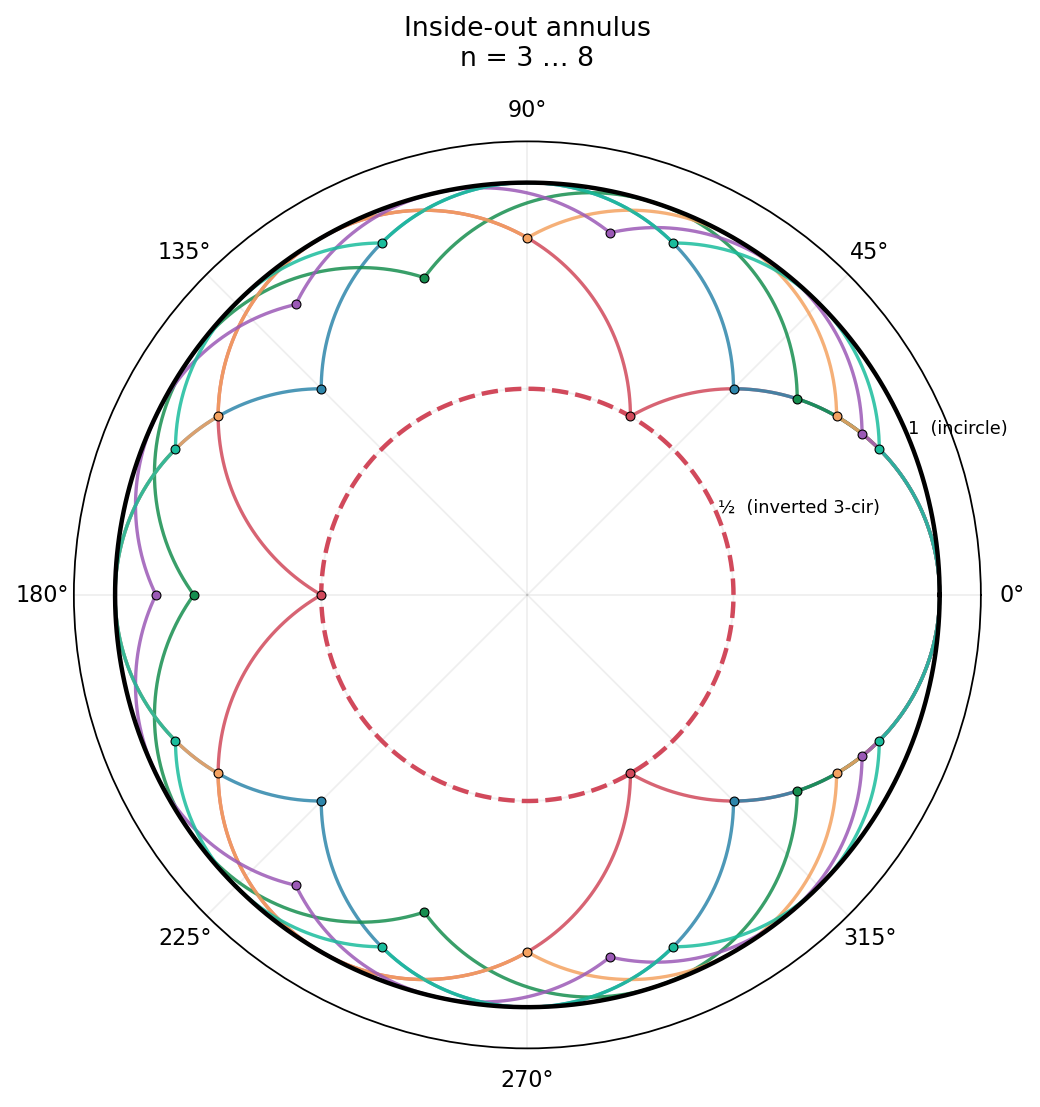
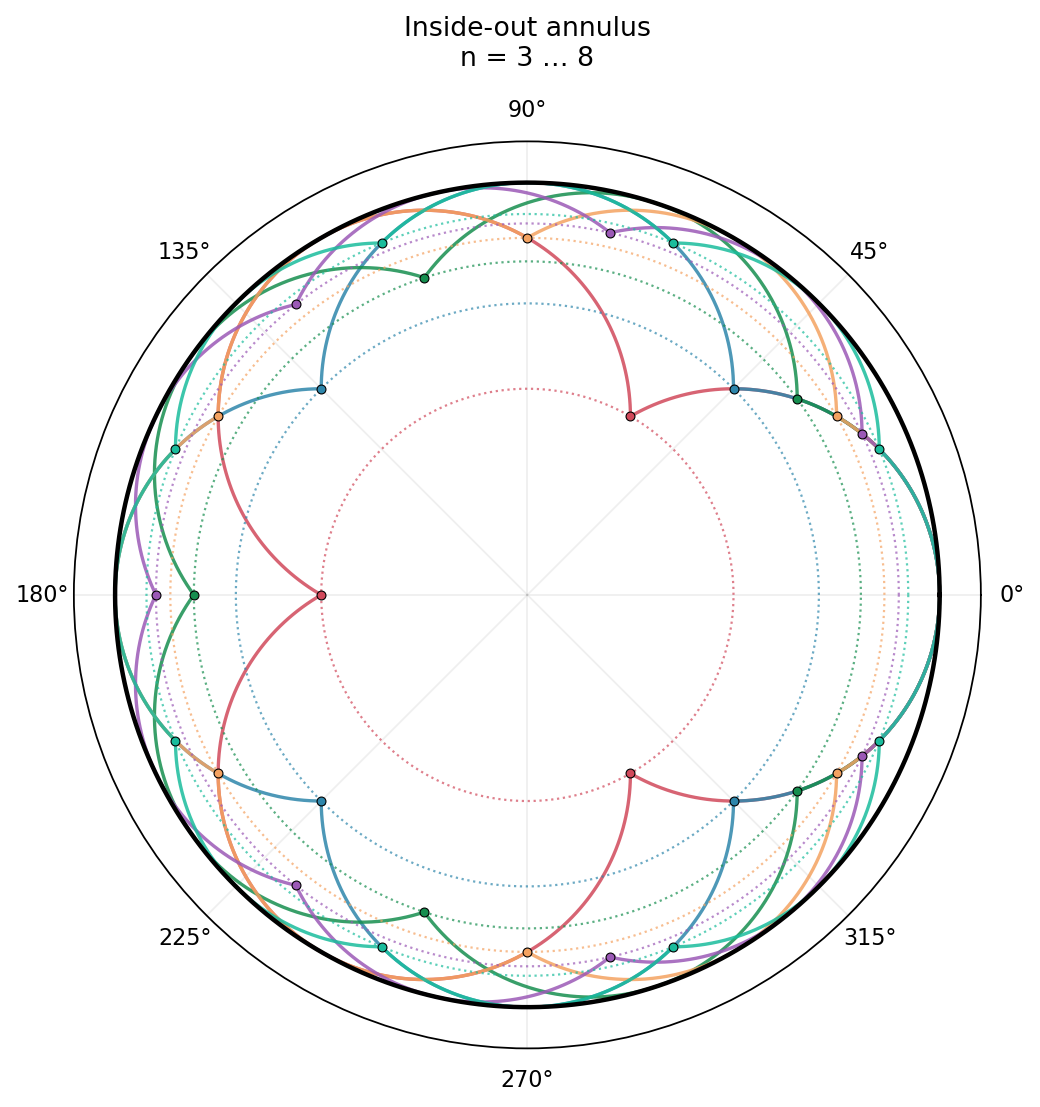
better graphs

diff --git a/n-gons/outside_out.py b/n-gons/outside_out.py
@@ -5,16 +5,19 @@ import matplotlib
 matplotlib.use("Agg")
 import matplotlib.pyplot as plt
 
-# Inversion z -> 1/z applied to the annulus {1 <= r <= 2}.
-# Result: annulus {1/2 <= r <= 1}.
+# The un-inverted annulus {1 <= r <= 2}: bend the Archimedean strip the
+# natural way, so the strip top (3-cir) lands at the outer boundary r = 2
+# and the strip bottom (incircle) lands at the inner boundary r = 1.
 #
-# n-gon edge k: original r = sec(theta - 2*pi*k/n)
-#   inverted:              r = cos(theta - 2*pi*k/n)
-#   same angular span: theta in [(2k-1)*pi/n, (2k+1)*pi/n]
+# n-gon edge k: straight line at distance 1 from origin, tangent to the
+#   incircle at angle 2*pi*k/n. Polar form r = sec(theta - 2*pi*k/n),
+#   valid on theta in [(2k-1)*pi/n, (2k+1)*pi/n].
+# n-gon corners: at angles (2k+1)*pi/n, radius sec(pi/n).
+# n-cir (circumscribed circle of the n-gon): full circle at r = sec(pi/n).
 #
-# Corners invert to radius cos(pi/n) = node(n).
-# n=3 arcs reach the inner boundary (r=1/2) exactly.
-# n>=4 arcs float; endpoints sit at r = cos(pi/n) > 1/2.
+# As n grows, sec(pi/n) \downarrow 1. The n-cirs converge down onto the
+# incircle from outside; each n-gon is squeezed in the annulus
+# [1, sec(pi/n)].
 
 NS = range(3, 9)
 COLORS = {
@@ -42,10 +45,10 @@ def plot(outpath):
 
     for n in NS:
         color = COLORS[n]
-        r_node = math.cos(math.pi / n)
+        r_outer = 1.0 / math.cos(math.pi / n)  # sec(pi/n)
         ax.plot(
             theta_full,
-            [r_node] * len(theta_full),
+            [r_outer] * len(theta_full),
             color=color,
             lw=1.0,
             linestyle=":",
@@ -57,12 +60,12 @@ def plot(outpath):
             theta_lo = alpha - math.pi / n
             theta_hi = alpha + math.pi / n
             theta = linspace(theta_lo, theta_hi, 300)
-            r = [math.cos(t - alpha) for t in theta]
+            r = [1.0 / math.cos(t - alpha) for t in theta]
             ax.plot(theta, r, color=color, lw=1.5, alpha=0.85)
         corner_angles = [(2 * k + 1) * math.pi / n for k in range(n)]
         ax.plot(
             corner_angles,
-            [r_node] * n,
+            [r_outer] * n,
             "o",
             color=color,
             ms=4,
@@ -72,10 +75,10 @@ def plot(outpath):
         )
 
     ax.set_rmin(0)
-    ax.set_rmax(1.1)
+    ax.set_rmax(2.1)
     ax.set_rticks([])
     ax.set_yticklabels([])
-    ax.set_title("Inside-out annulus\nn = 3 … 8", fontsize=12, pad=15)
+    ax.set_title("Outside-out annulus\nn = 3 … 8", fontsize=12, pad=15)
     ax.grid(True, alpha=0.2)
 
     plt.tight_layout()
@@ -87,6 +90,6 @@ if __name__ == "__main__":
     here = os.path.dirname(os.path.abspath(__file__))
     figdir = os.path.normpath(os.path.join(here, "..", "figures"))
     os.makedirs(figdir, exist_ok=True)
-    out = os.path.join(figdir, "archimedean_inside_out.png")
+    out = os.path.join(figdir, "archimedean_outside_out.png")
     plot(out)
     print(f"wrote {out}")

diff --git a/README.md b/README.md
@@ -2,6 +2,17 @@
 
 ![A hand-drawn sketch in MS Paint style: a stick figure wearing a hardhat stands beside a small industrial building with a smokestack. On the ground in front of the figure, three red triangles sit alongside one blue circle. Handwritten text floats in the sky reading "i guess we doin circles now".](figures/doincircles.png)
 
-A research program testing whether a structural correspondence — a candidate functor F — exists between two arithmetic objects: on the log side, the floating-point residue ε(m) = log₂(1+m) − m studied in *Landfall*; on the circle side, the regular n-gon wholeness apparatus and its arithmetic descendants. The repository is organized around the n-gon construction: `tangencies/` (what the n-gon does at edge midpoints on the incircle — the wholeness apparatus and its gcd refinement), `corners/` (what it does at the vertices — the pseudo-Chebyshev nodes, continuity, deformation, leash), and `n-gons/` (the bridge — strip and flip, and the explicit link between tangency data and corner data). `triad/` holds the three methodological disciplines — BIND / CREATI / PERMEATE — under which the program operates, plus the abstract triad pattern and a concrete worked test at `triad/NIVEN-THREE-WAYS.md`. `inscription/` holds the circle-side sibling-paper structure (Inscription) as an attackable research problem; `memos/` holds standalone references digesting external papers; `sources/` holds raw PDFs and cross-source syntheses. The directory bestiary lives at `n-gons/README.md`; the discipline charters live in `triad/plus_ultra/`. Generated figures and the sage scripts producing them are in `figures/` and `sage/`.
+A research program testing whether a structural correspondence — a candidate functor `F` — exists between two arithmetic objects: on the log side, the floating-point residue `ε(m) = log₂(1+m) − m` studied in *Landfall*; on the circle side, the regular `n`-gon wholeness construction and the arithmetic objects it generates. Most of the repository develops that circle side, then asks whether its structure can be matched, translated, or obstructed against the log side.
 
-The working hypothesis is that no such F exists, and the interesting result is the shape of the obstruction. Three independent legs probe this — Chebyshev polynomial structure (CREATI), crystallographic ↔ p-adic matching (PERMEATE), and τ_c / ε spectral rhyme (BIND) — each conducted under its own productive constraint (form / preparation / vocabulary). The expected outcome is an explicit closure-mismatch with computable witnesses: the circle side carries ℤ[x] as its operational closure via Chebyshev, the log side is capped at Aff⁺(ℝ) via the machine's native operations, and arithmetic witnesses such as the break at n = 7 (the first prime outside the {2, 3, 5}-smooth log-rep support) localize the mismatch. Where any leg succeeds locally, the success is itself informative. The deliverable shape is a closure-mismatch theorem articulated cooperatively across the three disciplines.
+The working hypothesis is that no such `F` exists, and that the interesting result is the shape of the obstruction. Three independent legs probe this — Chebyshev polynomial structure (CREATI), crystallographic ↔ p-adic matching (PERMEATE), and `τ_c / ε` spectral rhyme (BIND) — each conducted under its own productive constraint (form / preparation / vocabulary). The expected outcome is not just a no-go verdict but an explicit closure mismatch with computable witnesses: the circle side carries `ℤ[x]` as its operational closure via Chebyshev, the log side appears capped at `Aff⁺(ℝ)` via the machine's native operations, and arithmetic witnesses such as the break at `n = 7` localize the mismatch. Where any leg succeeds locally, that success is informative too. The deliverable shape is a closure-mismatch theorem articulated cooperatively across the three disciplines.
+
+## Project Layout
+
+This section records only the top-level roles, so it stays useful even as the deeper file tree shifts.
+
+- `tangencies/`, `corners/`, `n-gons/`, `inscription/`: the circle-side constructions, variants, and bridge notes.
+- `triad/`: the program architecture and the three working disciplines, BIND / CREATI / PERMEATE.
+- `memos/`: promoted internal references, crosswalks, and speculative future-facing notes.
+- `sources/`: source-facing reads, PDFs, and extraction material.
+- `figures/`, `sage/`: generated figures and the scripts that produce or support them.
+- `README.md`, `AGENTS.md`: top-level orientation and repo-local working rules.
